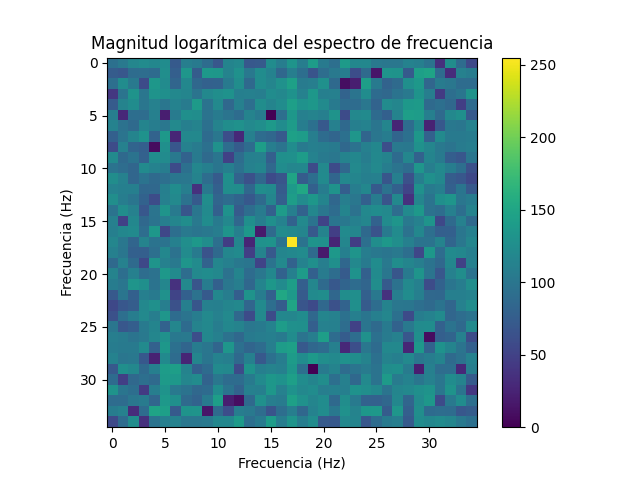
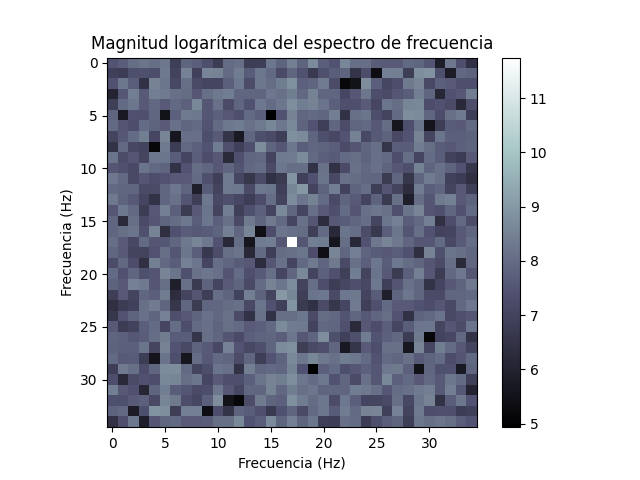
image update

diff --git a/IMGgenerator/prueba.py b/IMGgenerator/prueba.py
@@ -56,16 +56,16 @@ for nombre_archivo in nombres_archivos:
                 # Aplicar transformación logarítmica
                 magnitud_log = np.log1p(magnitud_espectro)
 
-                # Escalar linealmente los valores para ajustar el contraste
-                magnitud_log_normalizada = cv2.normalize(magnitud_log, None, 0, 255, cv2.NORM_MINMAX)
-
                 # Visualizar la magnitud logarítmica del espectro de frecuencia como una imagen
-                plt.imshow(magnitud_log_normalizada, cmap='viridis')
+                #reinicar plt
+                plt.clf()
+                #cambiar el CMAP para buscar uno que tenga mayor contraste ?
+                plt.imshow(magnitud_log, cmap='bone')
                 plt.colorbar()
                 plt.title('Magnitud logarítmica del espectro de frecuencia')
                 plt.xlabel('Frecuencia (Hz)')
                 plt.ylabel('Frecuencia (Hz)')
-                #TODO arreglar el tema del nombre
+                #TODO espectrograma
                 nombre_archivo = nombre_archivo.split("/")
                 nombre_archivo = nombre_archivo[2]
                 nombre_archivo = nombre_archivo.split(".")
